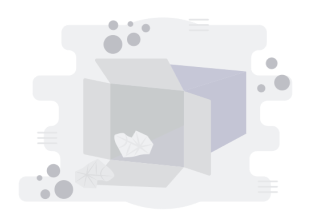
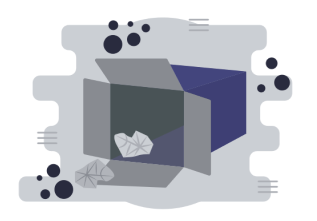
feat: mint

diff --git a/components/Mint/MintDialog.tsx b/components/Mint/MintDialog.tsx
@@ -1,3 +1,5 @@
+/* eslint-disable @typescript-eslint/no-unused-vars */
+/* eslint-disable @typescript-eslint/no-explicit-any */
 'use client';
 /* eslint-disable @typescript-eslint/no-non-null-asserted-optional-chain */
 import React, { useState } from 'react';
@@ -16,7 +18,6 @@ import axios from 'axios';
 import { useSearchParams } from 'next/navigation';
 import Button from '../ui/Button';
 import { ArrowLeft } from 'lucide-react';
-import * as Sentry from '@sentry/react';
 import { useAppKitAccount, useAppKitProvider } from '@reown/appkit/react';
 import { BrowserProvider, Contract, formatUnits } from 'ethers';
 
@@ -25,7 +26,6 @@ export default function MintDialog({
 }: {
   setMinted: (value: boolean) => void;
 }) {
-  const userFriendlyAddress = true;
   const searchParams = useSearchParams();
   const [isSuccess, setIsSuccess] = useState<boolean | null>(null);
   const [loading, setLoading] = useState(false);
@@ -59,8 +59,8 @@ export default function MintDialog({
       //   Sentry.captureException('over buy');
       //   throw new Error('over buy');
       // }
-      // const ref = searchParams.get('ref');
-      // console.log(ref);
+      const ref = searchParams.get('ref');
+      console.log(ref);
 
       console.log('Here');
 
@@ -93,14 +93,17 @@ export default function MintDialog({
         const approveTx = await nftContract.approveAndEmit(totalBuy);
         await approveTx.wait();
         console.log('Tokens approved for minting NFTs:', approveTx);
+        await axios.post(`${process.env.NEXT_PUBLIC_API_URL}/mint`, {
+          ...submitData,
+          ref: ref && ref !== address ? ref : null,
+          walletAddress: address,
+        });
+        setIsSuccess(true);
       } catch (error) {
         console.log(error);
       }
-
-      // setIsSuccess(true);
     } catch (error) {
       console.error('Error update data:', error);
-      Sentry.captureException(error);
       setIsSuccess(false);
     } finally {
       setLoading(false);
@@ -109,10 +112,13 @@ export default function MintDialog({
 
   return (
     <>
-      {!userFriendlyAddress ? (
-        <div className='w-fit' onClick={() => {}}>
+      {false ? (
+        <div
+          className="w-fit"
+          onClick={() => {}}
+        >
           <Button>
-            <p className='text-white'>Connect Wallet</p>
+            <p className="text-white">Connect Wallet</p>
           </Button>
         </div>
       ) : (
@@ -129,7 +135,7 @@ export default function MintDialog({
               <div className={styles['btn-glow']} />
               <div className={clsx('flex items-center gap-2', styles['btn'])}>
                 <StarBuyBtn />
-                <p className='text-[18px] leading-7 font-semibold text-white'>
+                <p className="text-[18px] leading-7 font-semibold text-white">
                   Buy Now
                 </p>
               </div>
@@ -137,7 +143,7 @@ export default function MintDialog({
           </DialogTrigger>
           <DialogContent
             className={clsx(
-              'bg-[#171D41] max-w-[704px] border-none rounded-none lg:rounded-xl overflow-y-auto h-full lg:h-auto',
+              'bg-[#101111] blur-[100] max-w-[704px] border-none rounded-none lg:rounded-xl overflow-y-auto h-full lg:h-auto',
               {
                 'w-full lg:max-w-[406px] pb-0 h-auto rounded-t-xl translate-x-0 translate-y-0 bottom-0 top-auto left-0 lg:-translate-x-1/2 lg:-translate-y-1/2 lg:bottom-auto lg:top-1/2 lg:left-1/2':
                   isSuccess !== null,
@@ -146,19 +152,22 @@ export default function MintDialog({
           >
             {isSuccess === null ? (
               <div>
-                <DialogClose className='lg:hidden outline-none p-2'>
+                <DialogClose className="lg:hidden outline-none p-2">
                   <ArrowLeft size={24} />
                 </DialogClose>
-                <MintBuy submitData={handleSubmit} loading={loading} />
+                <MintBuy
+                  submitData={handleSubmit}
+                  loading={loading}
+                />
               </div>
             ) : (
-              <MintSuccess isSuccess={isSuccess} />
+              <MintSuccess isSuccess={true} />
             )}
             {isSuccess !== null && (
-              <DialogClose className='lg:hidden mb-5 outline-none'>
-                <div className='flex items-center justify-center gap-1.5 py-3 bg-[#0F172AD9] rounded-xl'>
+              <DialogClose className="lg:hidden mb-5 outline-none">
+                <div className="flex items-center justify-center gap-1.5 py-3 bg-gradient-to-r from-[#37BFEA] to-[#0B0F3F] rounded-xl">
                   <ArrowLeft />
-                  <p className='font-semibold text-white'>Back to Homepage</p>
+                  <p className="font-semibold text-white">Back to Homepage</p>
                 </div>
               </DialogClose>
             )}

diff --git a/components/Mint/MintDone.tsx b/components/Mint/MintDone.tsx
@@ -1,29 +1,95 @@
+import clsx from 'clsx';
 import Image from 'next/image';
 import React from 'react';
 
 export default function MintSuccess({ isSuccess }: { isSuccess: boolean }) {
+  const titleText = isSuccess
+    ? 'You have successfully purchased the Strant VIP Pass!'
+    : 'Oops! Something Went Wrong';
+
+  const messageText = isSuccess ? (
+    <>
+      From now on, you will have full access to Strant’s Ecosystem, get airdrops
+      from our partner projects, join our wonderful community, and more...
+    </>
+  ) : (
+    <>
+      {`It seems there's a hiccup with your purchase. Don't worry, we're working on it!`}
+      Please try again shortly or <a href="">Contact Us</a> for assistance.
+    </>
+  );
+
+  const icon = isSuccess ? (
+    <svg
+      width="41"
+      height="40"
+      viewBox="0 0 41 40"
+      fill="none"
+      xmlns="http://www.w3.org/2000/svg"
+    >
+      <path
+        fill-rule="evenodd"
+        clip-rule="evenodd"
+        d="M3.83331 19.9999C3.83331 10.7952 11.2952 3.33325 20.5 3.33325C29.7046 3.33325 37.1666 10.7952 37.1666 19.9999C37.1666 29.2046 29.7046 36.6666 20.5 36.6666C11.2952 36.6666 3.83331 29.2046 3.83331 19.9999ZM28.2336 13.7196C28.9408 14.3089 29.0363 15.3598 28.447 16.0669L20.1136 26.0669C19.8228 26.4161 19.4018 26.6313 18.9485 26.6626C18.495 26.6941 18.0485 26.5389 17.7121 26.2333L12.7122 21.6878C12.0311 21.0686 11.9809 20.0144 12.6001 19.3334C13.2193 18.6523 14.2733 18.6021 14.9544 19.2213L18.667 22.5963L25.8863 13.933C26.4756 13.2259 27.5265 13.1303 28.2336 13.7196Z"
+        fill="#7ACC7D"
+      />
+    </svg>
+  ) : (
+    <svg
+      width="41"
+      height="40"
+      viewBox="0 0 41 40"
+      fill="none"
+      xmlns="http://www.w3.org/2000/svg"
+    >
+      <g clip-path="url(#clip0_2276_990)">
+        <path
+          d="M20.5 0C9.47156 0 0.5 8.97156 0.5 20C0.5 31.0284 9.47156 40 20.5 40C31.5284 40 40.5 31.0284 40.5 20C40.5 8.97156 31.5284 0 20.5 0Z"
+          fill="#F57E76"
+        />
+        <path
+          d="M27.8651 25.0083C28.5167 25.6601 28.5167 26.7133 27.8651 27.3651C27.5401 27.6901 27.1135 27.8534 26.6865 27.8534C26.2599 27.8534 25.8333 27.6901 25.5083 27.3651L20.5 22.3566L15.4918 27.3651C15.1668 27.6901 14.7401 27.8534 14.3135 27.8534C13.8866 27.8534 13.4599 27.6901 13.1349 27.3651C12.4834 26.7133 12.4834 25.6601 13.1349 25.0083L18.1434 20L13.1349 14.9918C12.4834 14.3399 12.4834 13.2868 13.1349 12.6349C13.7868 11.9834 14.8399 11.9834 15.4918 12.6349L20.5 17.6434L25.5083 12.6349C26.1601 11.9834 27.2133 11.9834 27.8651 12.6349C28.5167 13.2868 28.5167 14.3399 27.8651 14.9918L22.8566 20L27.8651 25.0083Z"
+          fill="#101111"
+        />
+      </g>
+      <defs>
+        <clipPath id="clip0_2276_990">
+          <rect
+            width="40"
+            height="40"
+            fill="white"
+            transform="translate(0.5)"
+          />
+        </clipPath>
+      </defs>
+    </svg>
+  );
+
   return (
     <div>
-      <p className="text-[20px] leading-7 tracking-[-0.5%] font-semibold text-white mb-2">
-        {isSuccess
-          ? `You have successfully purchased the Strant VIP Pass!`
-          : 'Oops! Something went wrong.'}
-      </p>
-      <p className="text-sm text-gray-400">
-        {isSuccess ? (
-          <>
-            {`From now on, you will have full access to Strant’s Ecosystem, receive
-            airdrops from our partner projects, join our wonderful community, and
-            more...`}
-          </>
-        ) : (
-          <>
-            {`It seems there's a hiccup with your purchase. Don't worry, we're working on it!`}
-            Please try again shortly or <a href="">Contact Us</a> for assistance.
-          </>
+      <div className="flex items-center justify-center mb-2 lg:m-0 lg:hidden">
+        {icon}
+      </div>
+      <p
+        className={clsx(
+          'text-[20px] leading-7 tracking-[-0.5%] font-semibold mb-2 text-center lg:text-left',
+          isSuccess
+            ? 'text-[#7ACC7D] lg:text-white'
+            : 'text-[#F57E76] lg:text-white'
         )}
+      >
+        {titleText}
       </p>
-      <Image src={`/image/mint-${isSuccess?'success':'err'}.png`} alt='mint-done-img' width={356} height={188} className='mt-6 w-full'/>
+      <p className="text-sm text-[#B6BECC] lg:text-gray-400 text-center lg:text-left">
+        {messageText}
+      </p>
+      <Image
+        src={`/image/mint-${isSuccess ? 'success' : 'err'}.png`}
+        alt={`mint-${isSuccess ? 'success' : 'error'}-img`}
+        width={356}
+        height={188}
+        className="mt-6 w-full"
+      />
     </div>
   );
 }

diff --git a/components/Mint/MintBuy.tsx b/components/Mint/MintBuy.tsx
@@ -20,7 +20,10 @@ export default function MintBuy({
       const { data } = await axios.get(
         `${process.env.NEXT_PUBLIC_API_URL}/totalbuy`
       );
-      setMaxbuy((Number(process.env.NEXT_PUBLIC_TOTAL_NFTS) || 2000) - Number(data.totalBuy));
+      setMaxbuy(
+        (Number(process.env.NEXT_PUBLIC_TOTAL_NFTS) || 2000) -
+          Number(data.totalBuy)
+      );
     } catch (error) {
       console.error('Error checking max buy:', error);
     }
@@ -34,27 +37,24 @@ export default function MintBuy({
     <div className="grid grid-cols1 lg:grid-cols-2 gap-8 items-center">
       <div className="relative hidden lg:block">
         <Image
-          src="/image/nft/nft-image-2.png"
+          src="/image/nft/nft-image.png"
           alt="nft-image"
           width={278}
-          height={344}
+          height={366}
         />
       </div>
       <div>
-        <p className="text-[30px] leading-[36px] tracking-[-0.75%] font-semibold text-white italic">
-          <span className="text-xl tracking-[-0.6%] not-italic">
-            Purchasing
-          </span>{' '}
+        <p className="text-[24px] leading-[32px] tracking-[-0.75%] font-semibold text-white">
           NFT VIP Pass - 1st Edition
         </p>
         <p className="mt-3 text-lg font-semibold tracking-[-0.5%] bg-gradient-to-r from-[#A2ADB9] via-[#F8FAFC] to-[#99A6B2] text-transparent bg-clip-text">
           {BASE_PRICE} USDT
         </p>
         <Image
-          src="/image/nft/nft-image-2.png"
+          src="/image/nft/nft-image.png"
           alt="nft-image"
           width={278}
-          height={344}
+          height={366}
           className="block lg:hidden mx-auto"
         />
         <div className="mt-6 border-t border-slate-600 mb-6">
@@ -78,7 +78,7 @@ export default function MintBuy({
         <div
           onClick={() => submitData({ amount, total: amount * BASE_PRICE })}
           className={clsx(
-            'bg-gradient-to-l from-[#9747FF] to-[#EA1187] rounded-xl py-2.5 text-center text-[18px] leading-7 font-semibold text-white cursor-pointer hover:opacity-80',
+            'bg-gradient-to-l from-[#8237EA] to-[#098BA8] rounded-xl py-2.5 text-center text-[18px] leading-7 font-semibold text-white cursor-pointer hover:opacity-80',
             { 'opacity-50 pointer-events-none': loading }
           )}
         >

diff --git a/components/Benefit/BenefitDialog.tsx b/components/Benefit/BenefitDialog.tsx
@@ -5,10 +5,7 @@ import {
   DialogTitle,
   DialogClose,
 } from '../ui/dialog';
-import {
-  ArrowLeft,
-  ArrowRight,
-} from 'lucide-react';
+import { ArrowLeft, ArrowRight } from 'lucide-react';
 import React from 'react';
 import { DialogHeader } from '../ui/dialog';
 import clsx from 'clsx';
@@ -826,13 +823,16 @@ export default function BenefitDialog() {
           <p className="hidden lg:block text-sm font-semibold text-slate-400">
             See Benefit details
           </p>
+          <p className="lg:hidden text-sm font-semibold text-slate-400">
+            See the benefits of being a VIP Pass holder
+          </p>
           <ArrowRight
             size={16}
             color="#94A3B8"
           />
         </div>
       </DialogTrigger>
-      <DialogContent className="bg-[#101111] border-none py-12 lg:py-6 max-w-[982px] max-h-screen overflow-y-auto rounded-none lg:rounded-xl">
+      <DialogContent className="bg-[#101111] border-none py-12 lg:py-6 max-w-[982px] max-h-screen overflow-y-auto rounded-none lg:rounded-xl blur-[100]">
         <DialogHeader className="relative">
           <DialogClose className="outline-none lg:hidden">
             <ArrowLeft className="absolute left-0 top-1/2 -translate-y-[8px]" />

diff --git a/components/Ref/Ref.tsx b/components/Ref/Ref.tsx
@@ -63,7 +63,7 @@ const IsVip = ({
         </div>
       </div>
       <Button
-        className="bg-gradient-to-r from-[#37BFEA] to-[#0B0F3F] flex gap-3 items-center justify-center lg:hidden"
+        className="bg-gradient-to-r from-[#37BFEA] to-[#0B0F3F] flex gap-3 items-center justify-center"
         onClick={() =>
           shareOnMobile({
             text: 'Hey checkout our collections',
@@ -106,7 +106,7 @@ const IsVip = ({
 };
 
 export default function Ref() {
-  const [isVip, setIsVip] = useState(true);
+  const [isVip, setIsVip] = useState(false);
   const [totalRef, setTotalRef] = useState(0);
 
   //   const checkMinted = async (walletAddress: string) => {
